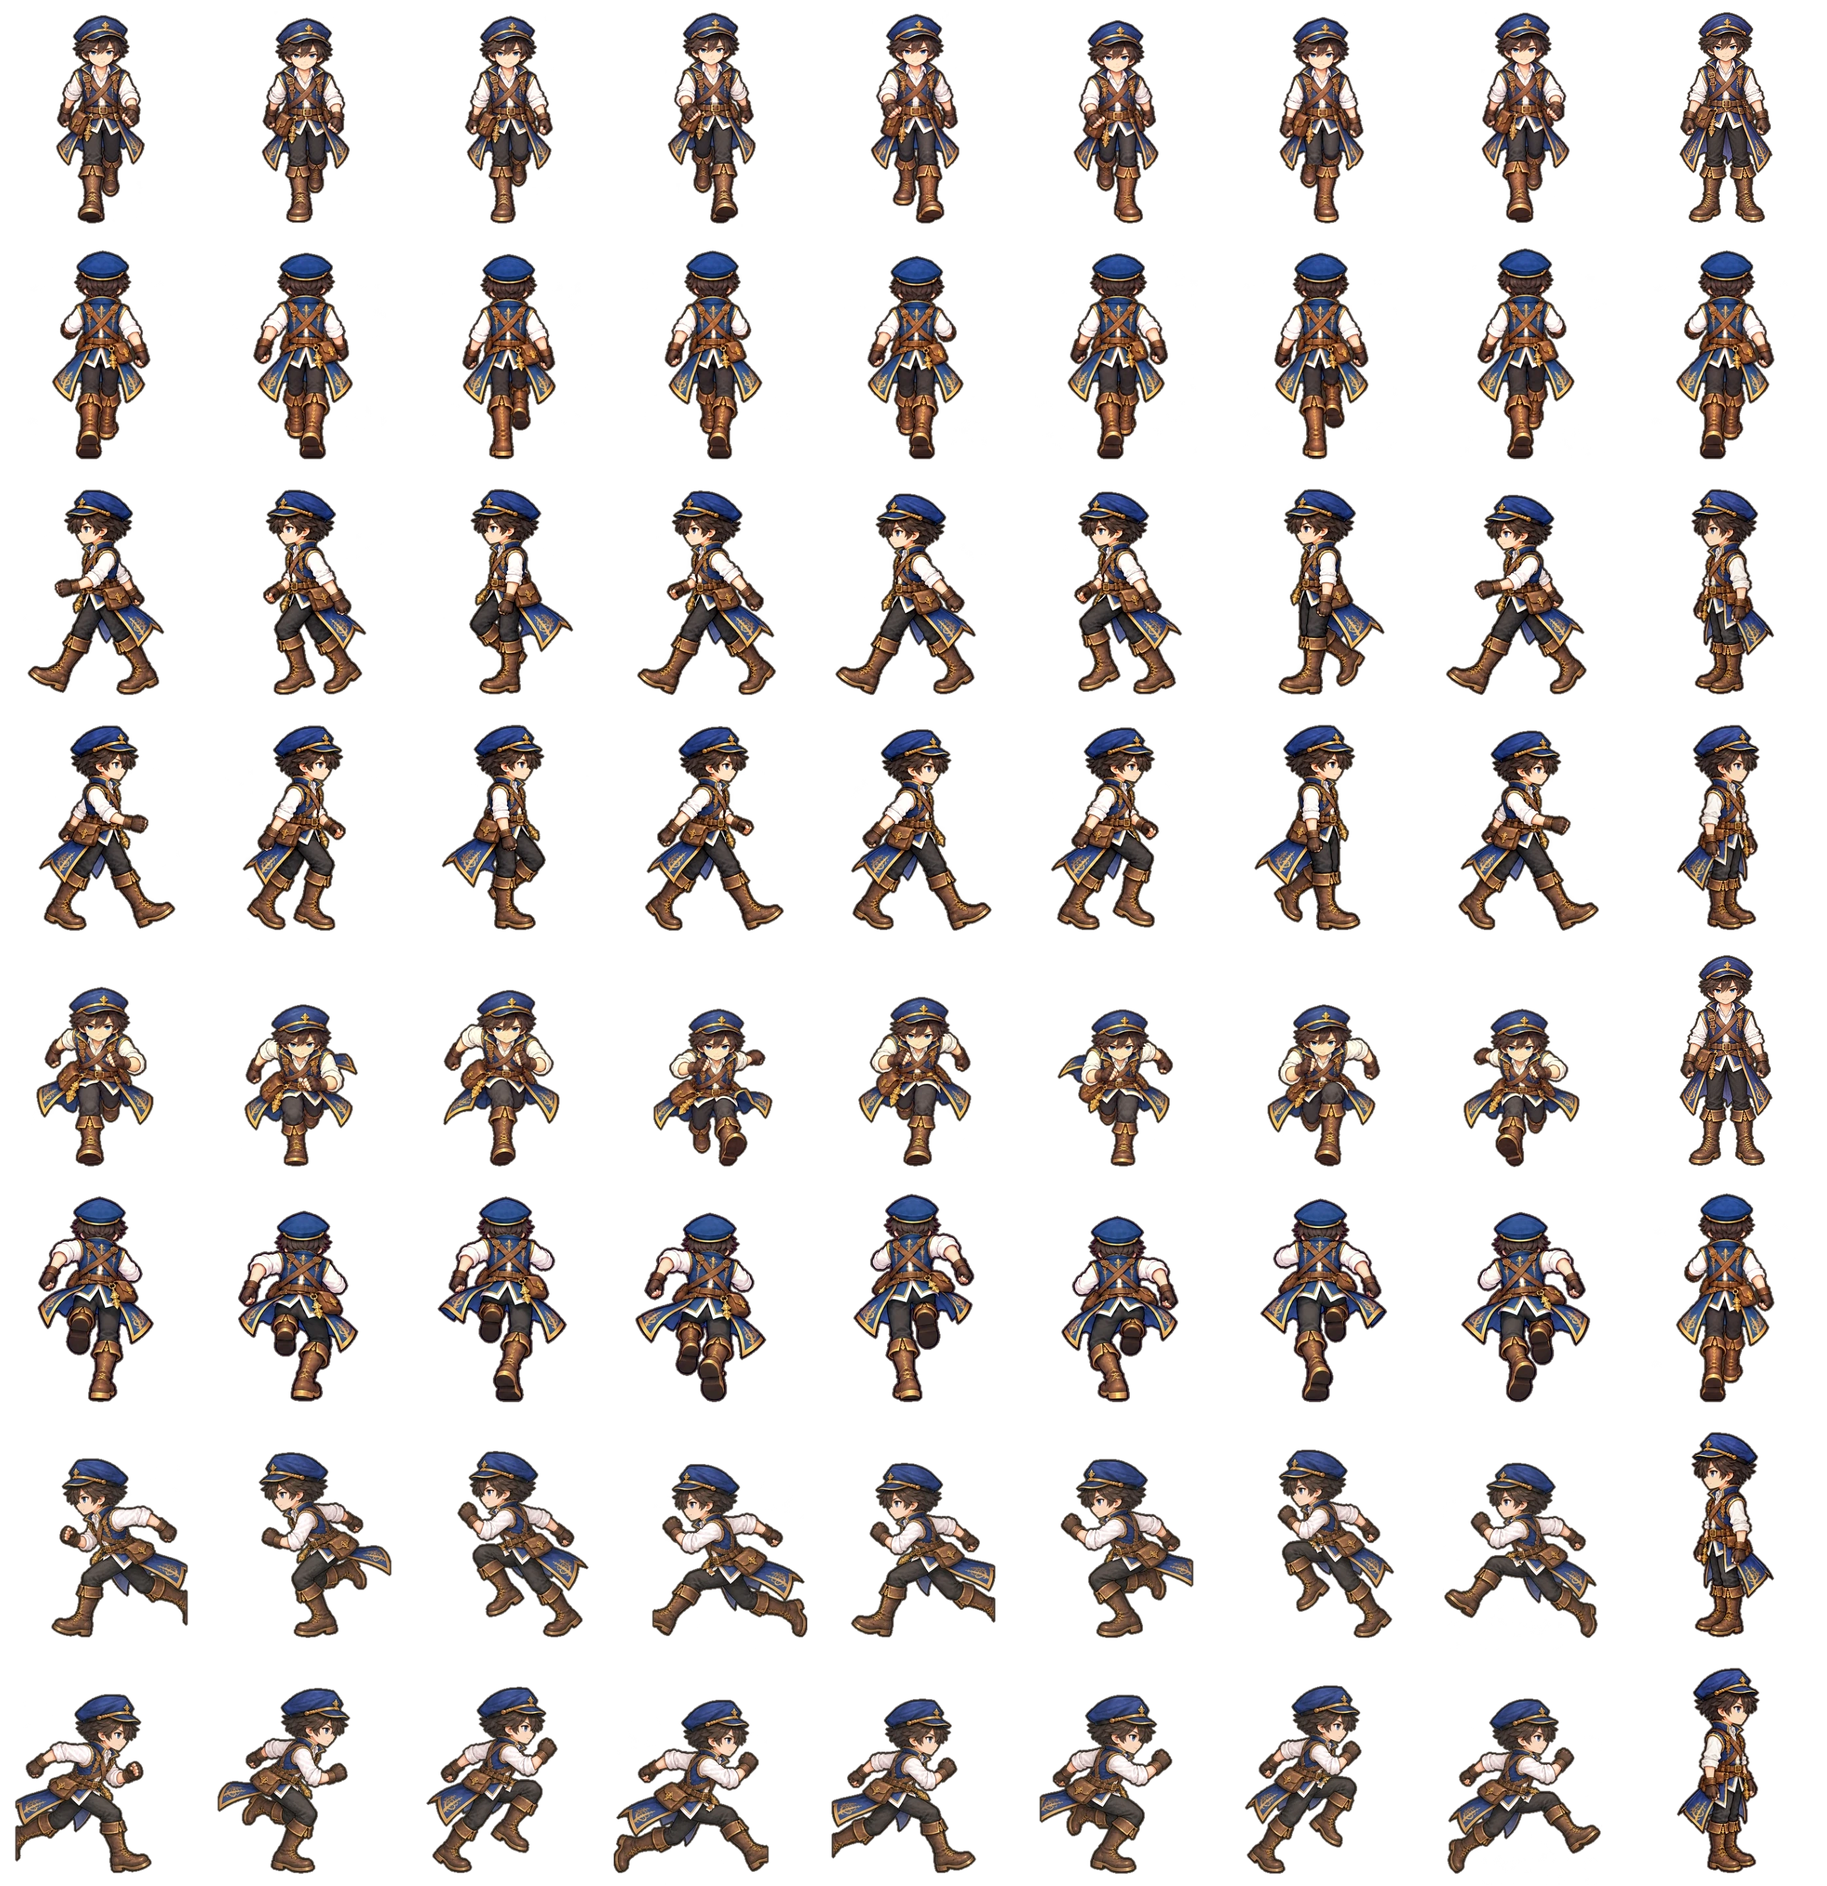
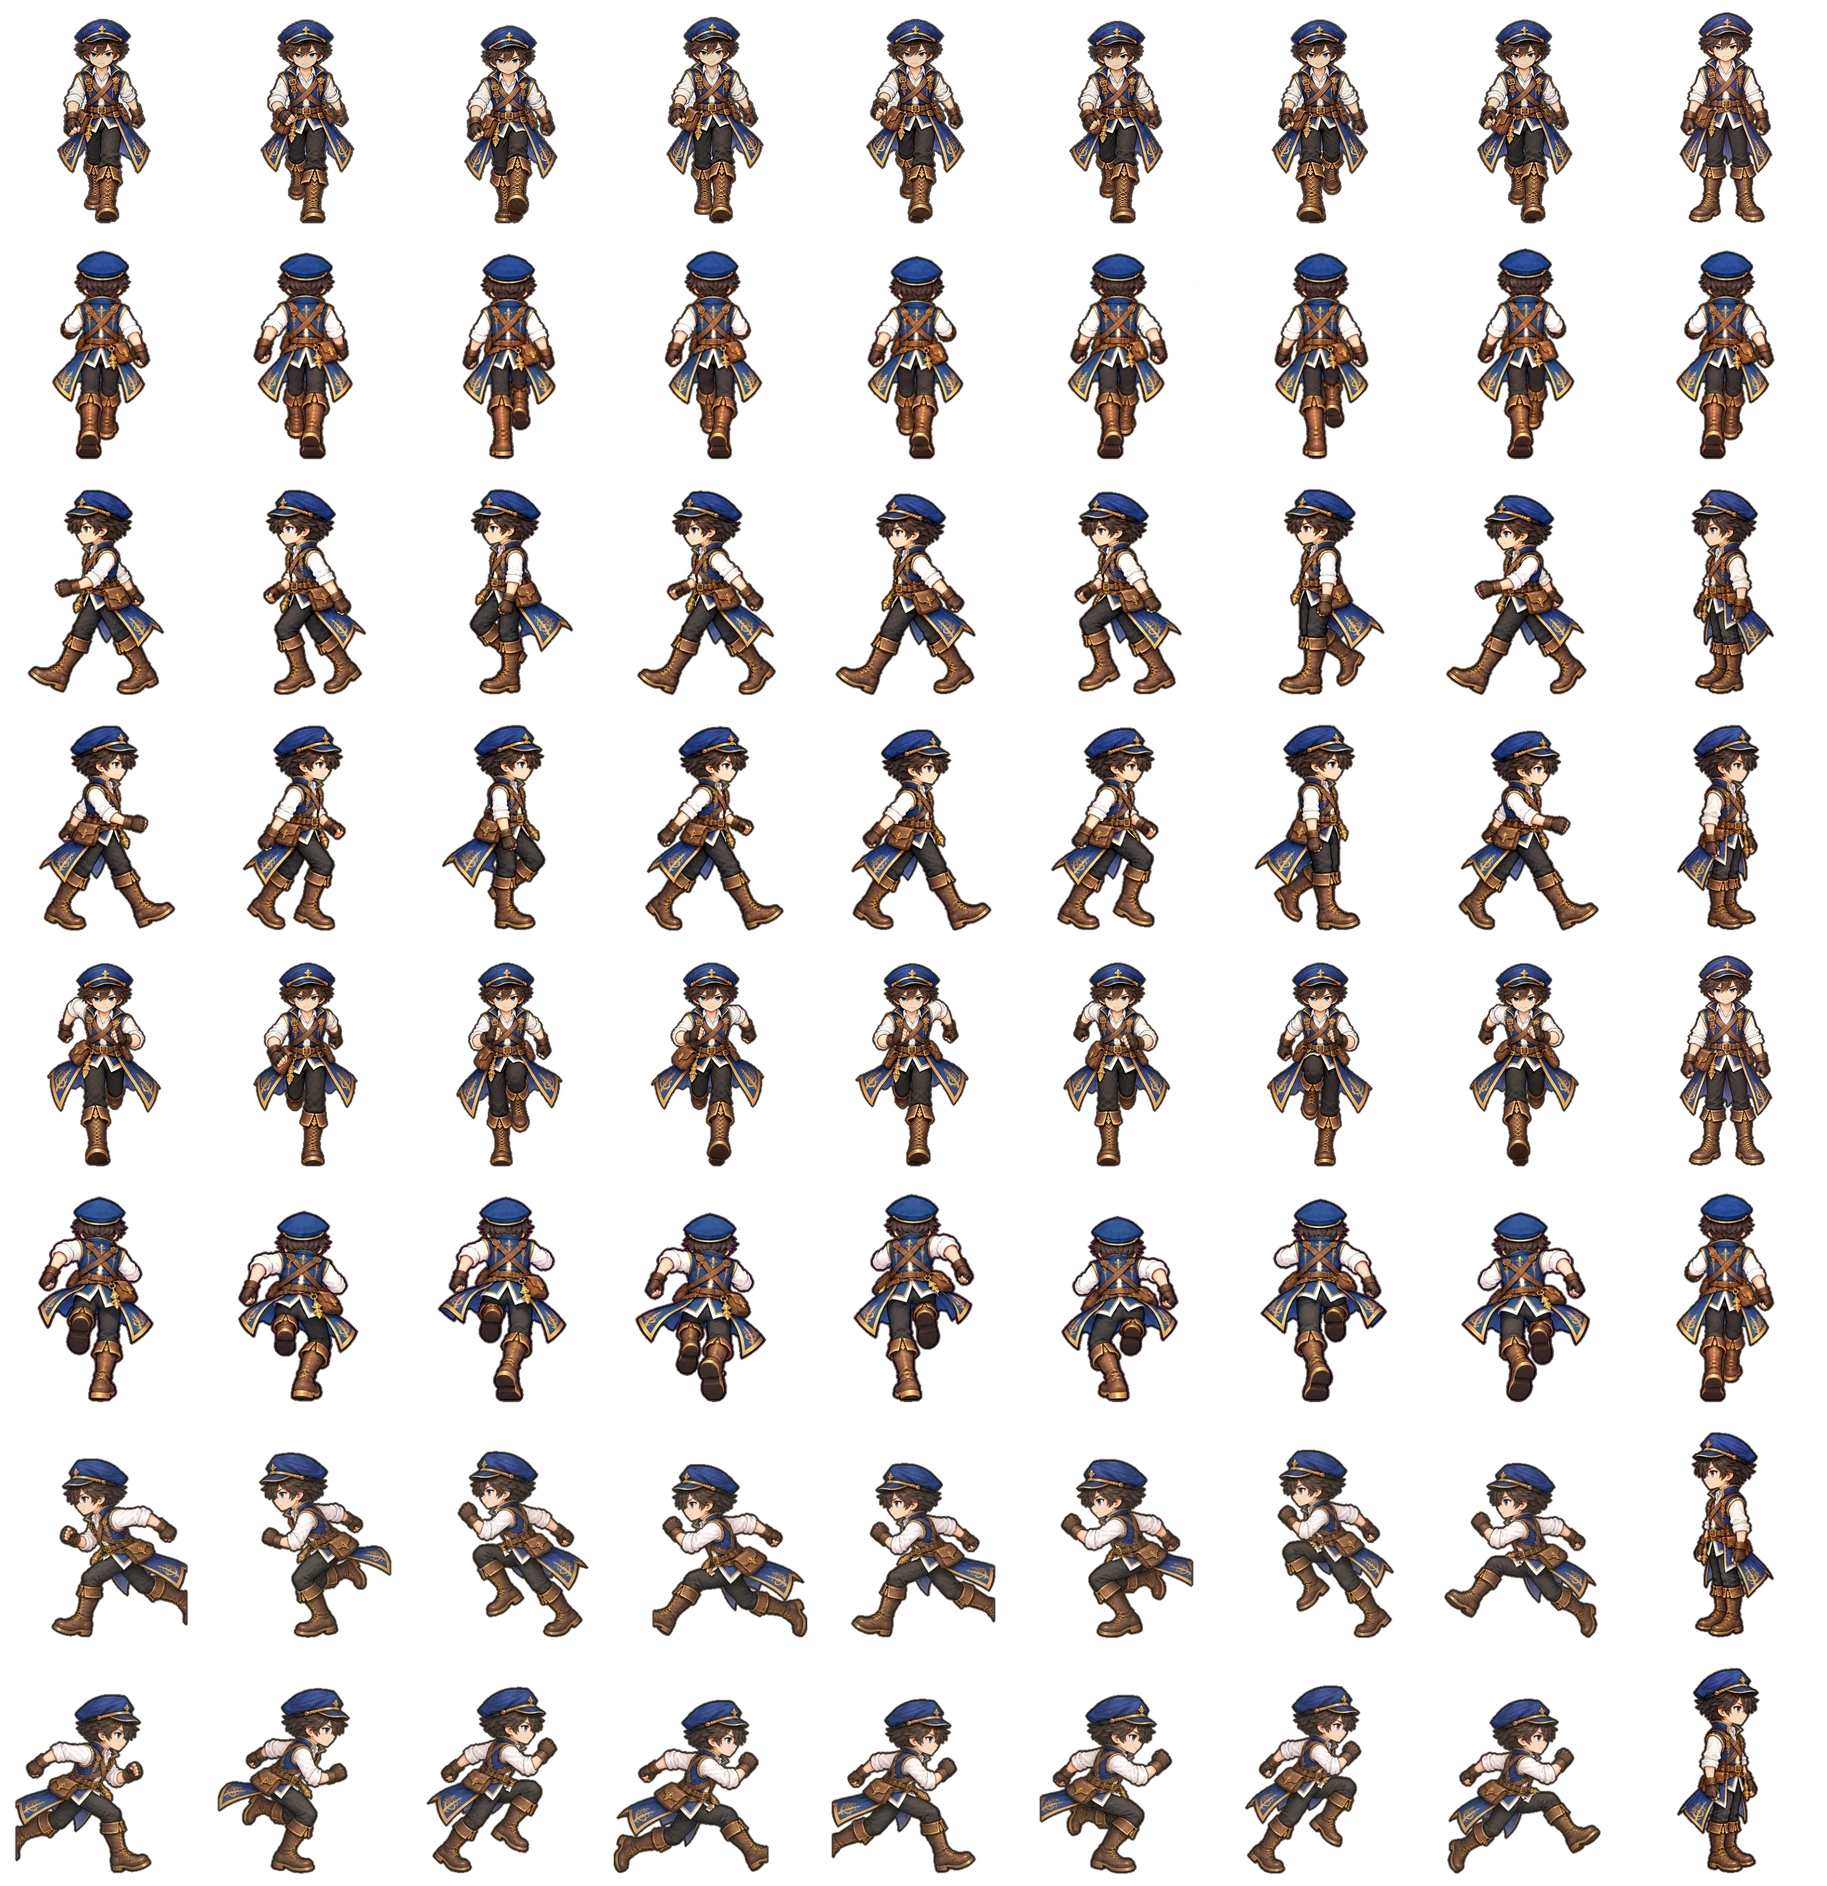
男性主人公の正面の歩き・走りを、立ち絵と同じ大きさ・色の新しい絵に
- 届いた絵（正面の歩き・走り）を tools/art/unified_build.py でシートの行0・行4に入れる。頭の大きさを立ち絵にそろえ、色も立ち絵に合わせる
- 走りは画像AIが沈んだ形に描くため、腰から下だけを縦に伸ばして背を歩きと同じに
- 測った結果と比較の絵を docs/design/walk-unified-20261025/ に記録

Claude-Session: https://claude.ai/code/session_01R3L2GTo7iNgRy29W4Nqkkf

diff --git a/tools/art/unified_build.py b/tools/art/unified_build.py
@@ -1,0 +1,136 @@
+# -*- coding: utf-8 -*-
+"""主人公の「立ち・歩き・走り」をそろえて描き直した絵（docs/design/walk-unified-20261025/）を、ゲームのシートの1行に入れる（2026-10-25）
+
+届く絵：1536×1024 に 4列×2段の8ポーズ（上の段 1〜4＝右足の1歩、下の段 5〜8＝左足の1歩）。背景は透明か、格子模様が焼き込まれた白。
+大きさは「頭の大きさ」を正式の立ち絵（design-parts/characters-adult/player_{male,female}_stand_v2.png）にそろえる
+（adult_walk_build.head_ratios：立ち絵の頭を型にして、1コマずつ縮尺を探す）。頭がそろえば、同じ割合で描かれた歩きは背の高さもそろう
+（歩きは脚が開くぶん立ち絵の −2〜−4%）。
+走りは画像AIがどうしても沈んだ形（頭をそろえると背が −8〜−11%）に描くので、--stretch-run で腰から下だけを縦に伸ばして、
+背の高さを歩きの真ん中の値にそろえる（頭・胴・腕はそのまま。2026-10-25 ユーザーに比較の絵で確認）。
+色は Lab の平均・ばらつきを、シートの正面の立ち止まり（正式の立ち絵）にそろえる（tools/art/match_stand.py の tone_fit）。
+暗い輪郭 2px を付ける（ほかのコマと同じ）。
+
+使い方:
+  python3 tools/art/unified_build.py シート.webp male|female 行 届いた絵.png [--stretch-run 歩きの届いた絵.png] [--out 出力.webp] [--check 確認.png]
+  行：0 正面・1 背中・2 左 の歩き、4 正面・5 背中・6 左 の走り（左の行を入れると、右〈3・7〉は左右反転で入る）
+"""
+import sys
+from pathlib import Path
+
+import numpy as np
+from PIL import Image
+from scipy import ndimage
+
+sys.path.insert(0, str(Path(__file__).parent))
+from adult_walk_build import head_ratios, outline  # noqa: E402
+from match_stand import FH, FOOT_X, FOOT_Y, FW, IDLE, MIRROR, cell, tone_apply, tone_fit  # noqa: E402
+
+STANDS = {g: Path(__file__).resolve().parents[2] / f'design-parts/characters-adult/player_{g}_stand_v2.png' for g in ('male', 'female')}
+# 腰から下として伸ばす範囲（人物の上から何割より下か）
+LOWER_FROM = 0.42
+
+
+def load_poses(path: str) -> list[Image.Image]:
+    """届いた絵を8ポーズに分ける（つながった形ごとに、近いマスへ）。格子模様の背景は、まわりから続く明るい灰色として消す"""
+    im = Image.open(path)
+    arr = np.array(im.convert('RGBA'))
+    if (arr[..., 3] < 250).mean() < 0.2:
+        rgb = arr[..., :3].astype(int)
+        bg_like = (rgb.min(-1) > 195) & ((rgb.max(-1) - rgb.min(-1)) < 14)
+        lab, _ = ndimage.label(bg_like)
+        edge = set(np.unique(np.concatenate([lab[0], lab[-1], lab[:, 0], lab[:, -1]]))) - {0}
+        fg = ndimage.binary_opening(~np.isin(lab, list(edge)), iterations=1)
+        arr[..., 3] = np.where(fg, 255, 0)
+    a = arr[..., 3] > 128
+    lab, _ = ndimage.label(ndimage.binary_dilation(a, iterations=2))
+    cw, rh = arr.shape[1] / 4, arr.shape[0] / 2
+    out = [np.zeros_like(arr) for _ in range(8)]
+    for i, _sl in enumerate(ndimage.find_objects(lab), start=1):
+        m = (lab == i) & a
+        if m.sum() < 300:
+            continue
+        ys, xs = np.nonzero(m)
+        out[int(ys.mean() // rh) * 4 + int(xs.mean() // cw)][m] = arr[m]
+    # うすい光の輪などの半透明は使わない（不透明な部分だけ）
+    for o in out:
+        o[..., 3] = np.where(o[..., 3] > 128, 255, 0)
+    return [Image.fromarray(o) for o in out]
+
+
+def crop(im: Image.Image) -> Image.Image:
+    a = np.array(im)[..., 3] > 128
+    ys = np.nonzero(a.any(axis=1))[0]
+    xs = np.nonzero(a.any(axis=0))[0]
+    return im.crop((int(xs[0]), int(ys[0]), int(xs[-1]) + 1, int(ys[-1]) + 1))
+
+
+def stretch_lower(im: Image.Image, factor: float) -> Image.Image:
+    """人物の上から LOWER_FROM より下を縦に factor 倍（上はそのまま）"""
+    im = crop(im)
+    w, h = im.size
+    y = round(h * LOWER_FROM)
+    low = im.crop((0, y, w, h)).convert('RGBa').resize((w, round((h - y) * factor)), Image.LANCZOS).convert('RGBA')
+    out = Image.new('RGBA', (w, y + low.height), (0, 0, 0, 0))
+    out.alpha_composite(im.crop((0, 0, w, y)), (0, 0))
+    out.alpha_composite(low, (0, y))
+    return out
+
+
+def place(im: Image.Image, k: float) -> np.ndarray:
+    """k 倍にして、足元（いちばん下）を FOOT_Y、胴（上から 15〜45%）の横の真ん中を FOOT_X に置いた 1コマ"""
+    im = crop(im)
+    small = im.convert('RGBa').resize((max(1, round(im.width * k)), max(1, round(im.height * k))), Image.LANCZOS).convert('RGBA')
+    a = np.array(small)[..., 3] > 128
+    h = small.height
+    cx = float(np.nonzero(a[int(h * 0.15): int(h * 0.45)])[1].mean())
+    frame = Image.new('RGBA', (FW, FH), (0, 0, 0, 0))
+    frame.alpha_composite(small, (round(FOOT_X - cx), FOOT_Y - h + 1))
+    return np.array(frame)
+
+
+def height_ratios(stand: Image.Image, poses: list[Image.Image]) -> tuple[list[float], list[float]]:
+    """1コマずつ（頭の大きさ ÷ 立ち絵の頭、頭をそろえたときの背の高さ ÷ 立ち絵の背の高さ）"""
+    heads = head_ratios(stand, poses)
+    sh = crop(stand).height
+    return heads, [crop(p).height / hd / sh for p, hd in zip(poses, heads)]
+
+
+def main(args: list[str]) -> None:
+    sheet_path, gender, row, src = args[0], args[1], int(args[2]), args[3]
+    out_path = args[args.index('--out') + 1] if '--out' in args else sheet_path
+    sheet = np.array(Image.open(sheet_path).convert('RGBA'))
+    stand = Image.open(STANDS[gender]).convert('RGBA')
+    # ゲームのコマでの立ち絵の背の高さ（正面の立ち止まり。輪郭 2px のぶんを引く）＝ 原本の立ち絵の何倍で置くか
+    idle = cell(sheet, 0, IDLE)
+    ys = np.nonzero((idle[..., 3] > 128).any(axis=1))[0]
+    game_h = int(ys[-1] - ys[0] + 1) - 4
+    k_stand = game_h / crop(stand).height
+    poses = load_poses(src)
+    heads, hs = height_ratios(stand, poses)
+    print('頭の比', [round(x, 3) for x in heads])
+    print('頭をそろえたときの背の高さ（立ち絵＝1）', [round(x, 3) for x in hs])
+    if '--stretch-run' in args:
+        walk = load_poses(args[args.index('--stretch-run') + 1])
+        target = float(np.median(height_ratios(stand, walk)[1]))
+        poses = [stretch_lower(p, 1 + (target - h) / (1 - LOWER_FROM) / h) if h < target else p for p, h in zip(poses, hs)]
+        print(f'走りの腰から下を伸ばして、背の高さを歩きの真ん中の値 {target:.3f} に')
+    frames = [place(p, k_stand / hd) for p, hd in zip(poses, heads)]
+    fit = tone_fit(frames, [idle])
+    frames = [np.array(outline(Image.fromarray(tone_apply(f, fit)), 2)) for f in frames]
+    for c, f in enumerate(frames):
+        sheet[row * FH:(row + 1) * FH, c * FW:(c + 1) * FW] = f
+    # 背中・横の立ち止まりは今の列のまま。左の行を入れたら右（反転）にも
+    for r, src_r in MIRROR.items():
+        if src_r == row:
+            for c in range(8):
+                sheet[r * FH:(r + 1) * FH, c * FW:(c + 1) * FW] = cell(sheet, src_r, c)[:, ::-1]
+    Image.fromarray(sheet).save(out_path, quality=92, method=6)
+    print('書き出し:', out_path)
+    if '--check' in args:
+        from match_stand import check_image
+
+        check_image(sheet, args[args.index('--check') + 1])
+
+
+if __name__ == '__main__':
+    main(sys.argv[1:])

diff --git a/docs/handoff.md b/docs/handoff.md
@@ -14,7 +14,7 @@
 | 歩き・走り（2026-10-24・公開済み） | 主人公は男女とも **4方向（正面・背中・左・右。右は左の反転）×「歩き8コマ＋走り8コマ」**。斜めに進むときは横の絵（ユーザー「斜めは無しで四方向に」）。シート `assets/images/characters/player_{male,female}_sheet.webp`＝9列（8コマ＋立ち）×8行（歩き4＋走り4）・1コマ 310×360。作り方：`python3 tools/art/adult_walk_build.py design-parts/characters-adult player_male assets/images/characters/player_male_sheet.webp --scale 1.25 --outline 2 --wide 248 --match-heads`（女性も同じ。1人10〜15分。scipy・OpenCV が要る）。原本は `design-parts/characters-adult/motion-v2/`（`{ID}_{向き}_walk_{r,l}.png`・`{ID}_{向き}_run8.png`）。頭の大きさを1コマずつ立ち姿にそろえる（男性 ±1.8%・女性の後ろ姿は帽子の幅）。歩く速さ 185・走り 315（論理px/秒）、1歩は絵に合わせて 歩き0.38・走り0.7（`src/game/world/walkAnim.ts`）、人物の表示 `FIGURE_ZOOM` 1.55・横 `FIGURE_WIDEN` 1.1（主人公も NPC も）。依頼文一式 `docs/design/walk-run-v3-20261024/`、受け取りの記録は同じフォルダの `10_RESULTS_UTF8.txt` |
 | 試遊の直し5点（2026-10-25・`f910b68` を公開済み・**iPhone 確認待ち**） | ①歩き・走りの絵を立ち姿の大きさ・色味に（`tools/art/match_stand.py`。できたシートにかける。倍率は行ごとの表 `SCALE`：男性は歩きの背の高さを立ち姿に合わせた値、女性は正面だけ 0.95。色は Lab の平均・ばらつきを立ち姿に。**adult_walk_build.py でシートを作り直したら、そのあと必ずこれをかける**） ②建物の中・ダンジョンでは走らない（街だけ） ③斜めに進まない（スティック・矢印キーとも上下左右の4方向） ④タップでは歩かない（近くの人・となりの家具だけ、その場で話す・調べる） ⑤スティックと「調べる」を2倍（208px・144px）。気になる点：女性の正面の走りの絵は顔が白く抜けている（元の絵のまま）、「調べる」が大きくなり部屋の「外へ」の札に一部重なることがある |
 | 立ち・歩き・走りの統一（2026-10-25 3回目・**絵の描き直し待ち**） | ユーザー「まだだめ。立ち絵と四方向の歩き・走りの全てが統一でなければ。若干サイズが変わる・走りは背が低くなる。無理なら理由と方法を」。結論：**別々に描いた絵（立ち・歩き・走り・横の立ち）は縮小・色合わせでは同一にできない**（物差しを背の高さにすると頭が、頭にすると体が違う。走りはかがんだ姿勢で頭が 15〜25% 低い。`docs/design/walk-unified-20261025/why_run.png`）。方法：正式の立ち絵を「同じ絵の中の見本」として貼った枠で歩き・走りを描き直す（走りはかがまない姿勢）。依頼一式 `docs/design/walk-unified-20261025/`（作るのは `tools/design/walk_unified_pack.py`。ZIP はユーザーに渡し済み）。届いたら：見本との帽子の幅・背の高さ・色を測り（3% まで Claude が直す）、`adult_walk_build.py` で組み込む（新しい枠は5列×2段なので切り出しを足す） |
-| 統一の絵の受け取り（2026-10-25） | 男性・正面の歩き＝使う（頭をそろえると背 −2〜−4%・色 +2）。男性・正面の走り＝描き直し（背 −7〜−15%。直しの一言 `docs/design/walk-unified-20261025/male/front/8_FIX_run_1st.txt`）。記録 `docs/design/walk-unified-20261025/10_RESULTS_UTF8.txt`。**ゲームにはまだ入れていない**（正面の走りが通ったらまとめて） |
+| 統一の絵の受け取り（2026-10-25） | 男性・正面の歩き＝使う（頭をそろえると背 −2〜−4%・色 +2）。男性・正面の走り＝2回目も背 −8〜−11% のため、腰から下を縦に伸ばして歩きと同じ背に（`tools/art/unified_build.py --stretch-run`）。記録 `docs/design/walk-unified-20261025/10_RESULTS_UTF8.txt`。**正面の歩き・走りはゲームに入れた（未公開）**。組み込みは `tools/art/unified_build.py`（頭の大きさで立ち絵にそろえる）。次は男性の左向き・背中 |
 | 公開する版 | `main`。作業はブランチで行い、確認後に `main` へマージしてから公開する |
 | 本編 | `mystic-monsters`（育成ゲーム本編）は**変更禁止**。素材の利用だけ許可済み（読み取りのみ） |
 | バトルのルール | **PS版『モンスターファーム バトルカード』準拠。変えるのは3点だけ**：山札60枚・ガッツを「マナ」と表記・全体カードとブリーダー（プレイヤー）カードを「サポート」に集約（ユーザー決定。`docs/battle-rules.md`） |
